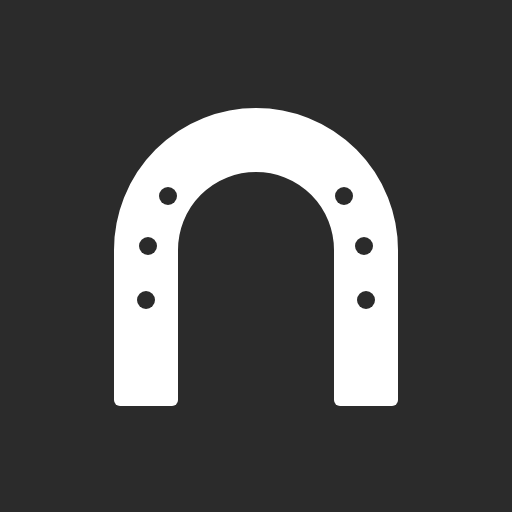
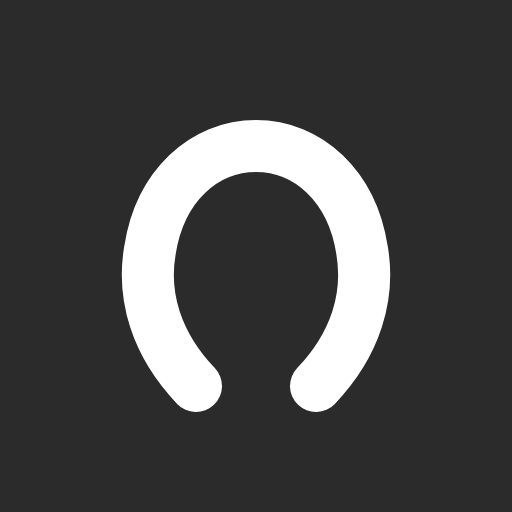
체크리스트(캘린더 알림, 아이콘 배지) 추가, 앱 아이콘 단순화
Claude-Session: https://claude.ai/code/session_01Q2chtS3Ry8R9v7QYdaB4zE

diff --git a/sw.js b/sw.js
@@ -1,4 +1,4 @@
-const CACHE = "farrier-v2";
+const CACHE = "farrier-v3";
 const SHELL = ["./", "index.html", "manifest.webmanifest", "icon-180.png", "icon-192.png", "icon-512.png"];
 self.addEventListener("install", e => { e.waitUntil(caches.open(CACHE).then(c => c.addAll(SHELL))); self.skipWaiting(); });
 self.addEventListener("activate", e => { e.waitUntil(caches.keys().then(ks => Promise.all(ks.filter(k => k !== CACHE).map(k => caches.delete(k))))); self.clients.claim(); });
